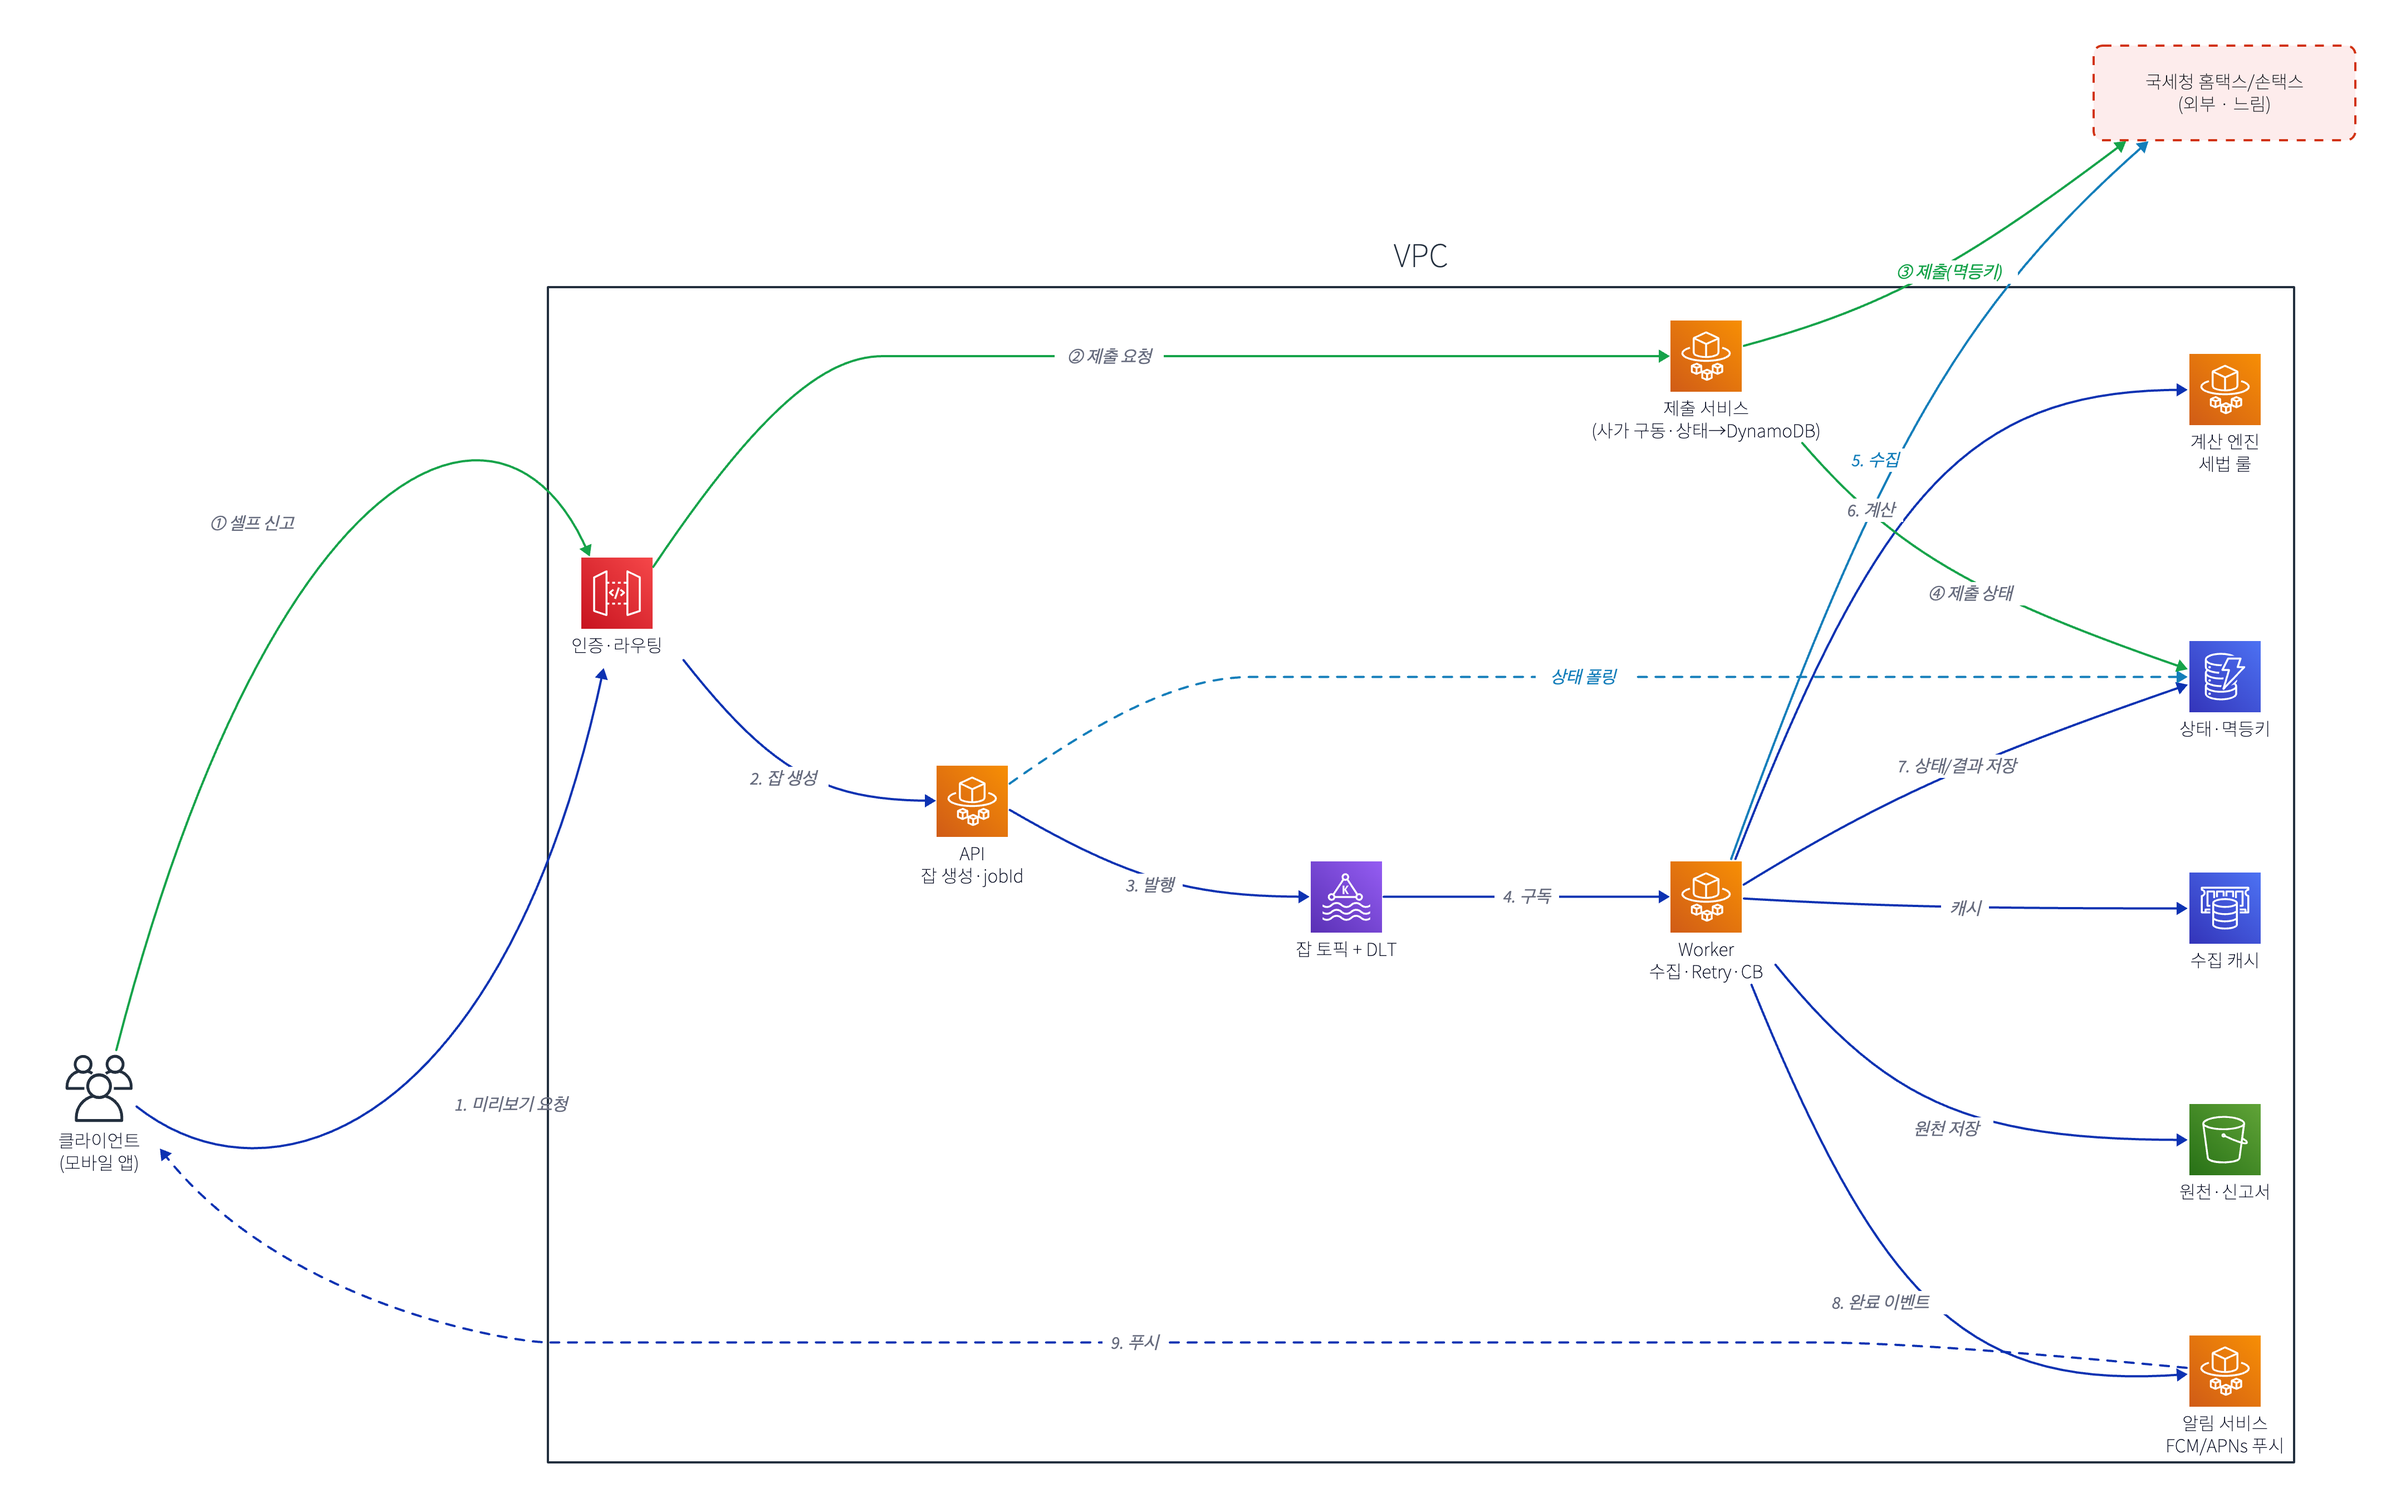
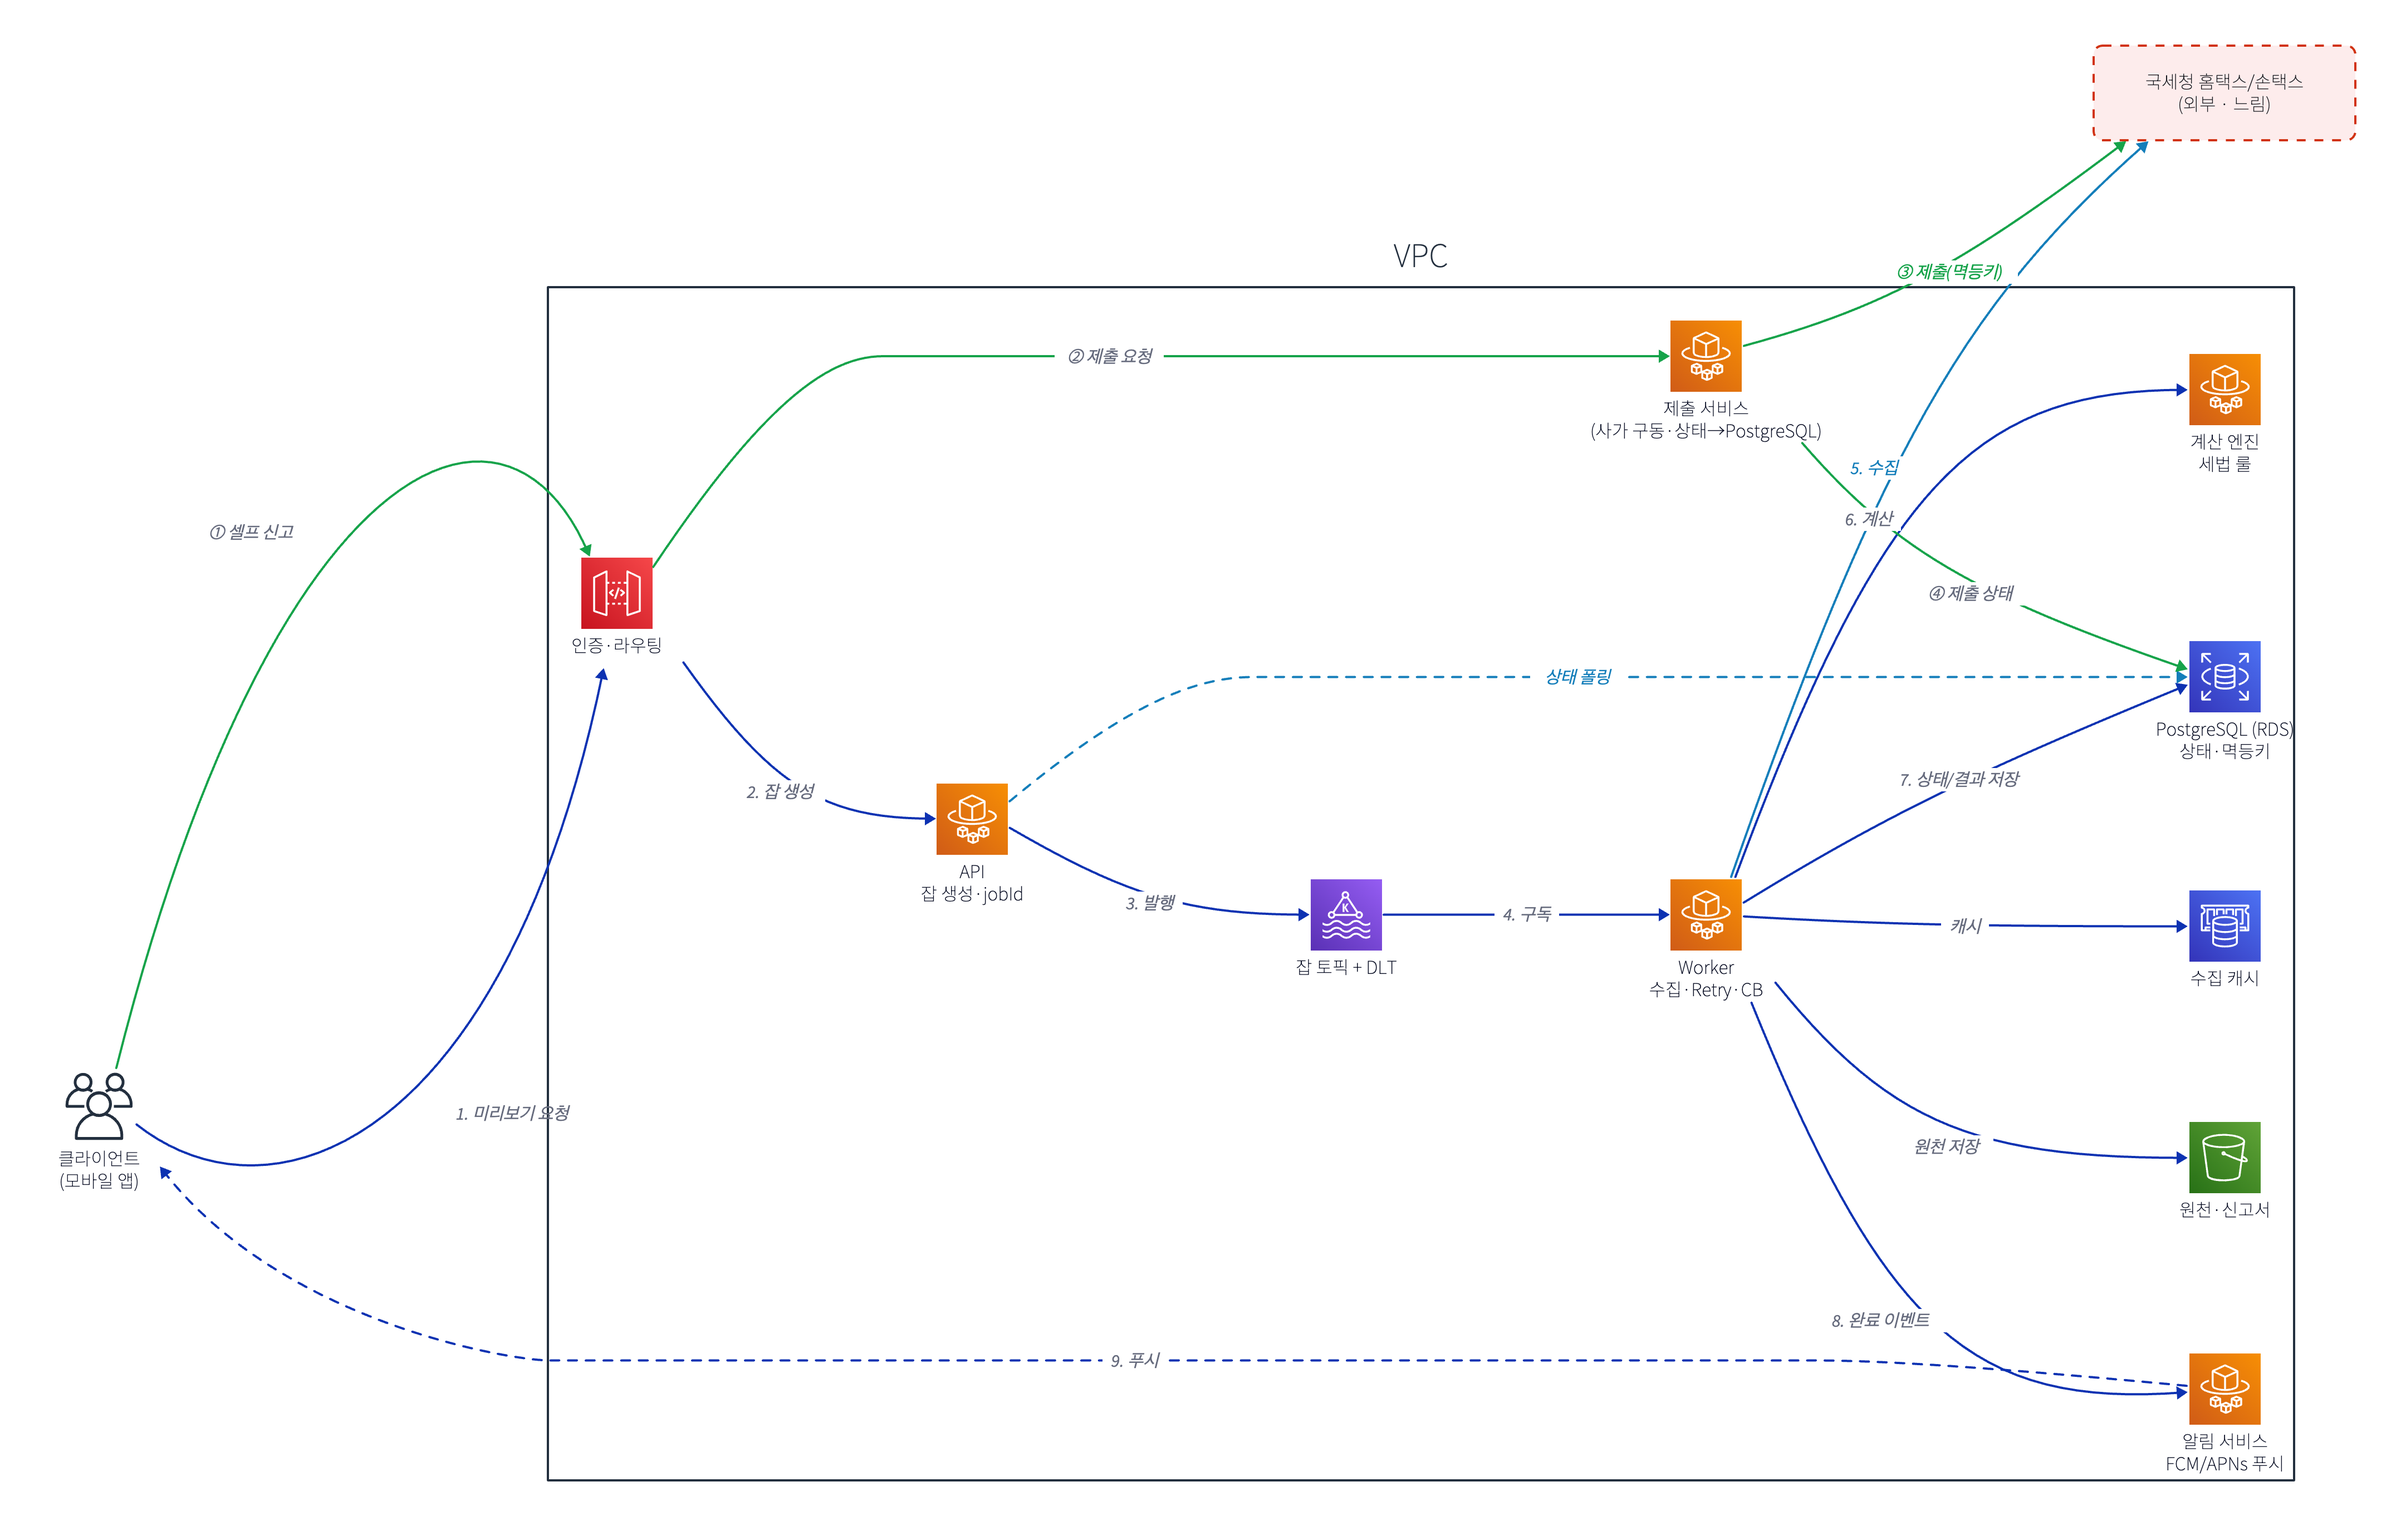
docs: ★/L1 상태 저장소 DynamoDB→PostgreSQL(RDS)로 정리
도메인 모델링 문서의 'PostgreSQL 중심' 결정과 아키텍처 다이어그램 일치.
★/L1 노드 아이콘(RDS)·라벨, 제출 서비스 부제, 본문 DynamoDB 언급 모두 교체.

diff --git a/system-design/260611-종소세-환급-설계.md b/system-design/260611-종소세-환급-설계.md
@@ -54,10 +54,10 @@
 
 > 흐름 1→7 · 점선 = 폴링/상태 전이 · 빨강 = 국세청(외부)
 
-**L0 대비 추가**: API Gateway · Kafka(잡 토픽) · Worker · DynamoDB(상태 머신).
+**L0 대비 추가**: API Gateway · Kafka(잡 토픽) · Worker · PostgreSQL(상태 머신).
 
 - 국세청 수집을 **워커 잡**으로 분리 → API는 즉시 `jobId` 반환, 사용자는 폴링으로 결과 수신 ⇒ **1⃣3⃣ 해결**("3분 미리보기"가 비동기로 성립).
-- 진행 상태를 **DynamoDB**(`REQUESTED→COLLECTING→CALCULATING→READY`)에 저장 → 중간 실패해도 이어서 재시도 ⇒ **4⃣ 해결**.
+- 진행 상태를 **PostgreSQL**(`REQUESTED→COLLECTING→CALCULATING→READY`)에 저장 → 중간 실패해도 이어서 재시도 ⇒ **4⃣ 해결**.
 - Kafka 버퍼링으로 시즌 폭증 흡수(동기 스레드 고갈 → 토픽 적체로 전환).
 
 **아직 남은 것** → L2에서:
@@ -72,7 +72,7 @@
 **L1 대비 추가** — 남은 문제를 정확히 겨냥해서 얹는다:
 
 - **읽기 보호(2⃣)**: Worker→국세청 경로에 Retry(backoff+jitter) · Circuit Breaker · Rate Limiter, **ElastiCache** 단기 캐시, **Kafka DLT**(dead-letter topic) ⇒ 국세청이 흔들려도 격리·완충.
-- **쓰기 사가(3⃣4⃣)**: API Gateway→**제출 서비스**(Spring 서비스, 사가를 코드로 구동·상태는 DynamoDB): `검증 → 제출(멱등키) → 접수확인 폴링 → 완료기록`, 실패 시 보상. 같은 멱등키 → **한 번만 접수**, 타임아웃 시 **상태 재확인 후 판단**(성공 오판 금지). *(워크플로가 길고 복잡해지면 Temporal 같은 durable workflow 엔진으로 승급)*
+- **쓰기 사가(3⃣4⃣)**: API Gateway→**제출 서비스**(Spring 서비스, 사가를 코드로 구동·상태는 PostgreSQL): `검증 → 제출(멱등키) → 접수확인 폴링 → 완료기록`, 실패 시 보상. 같은 멱등키 → **한 번만 접수**, 타임아웃 시 **상태 재확인 후 판단**(성공 오판 금지). *(워크플로가 길고 복잡해지면 Temporal 같은 durable workflow 엔진으로 승급)*
 - **부가**: 완료 **알림 서비스**(FCM/APNs) · **S3**(원천·신고서) · 횡단(KMS/Secrets·룰셋 버저닝+계산 스냅샷·관측).
 
 > 읽기는 "견디기", 쓰기는 "정확히 한 번" — 이 비대칭이 설계의 뼈대.
